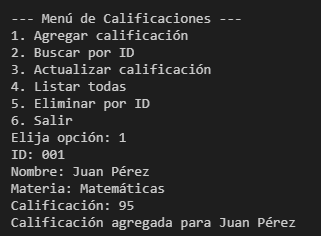
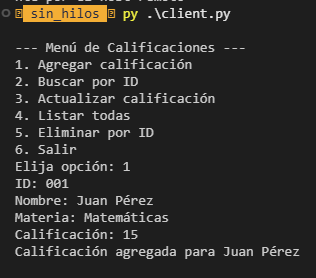
Refactor code structure for improved readability and maintainability

Changed region(s): [[0.0, 0.0, 0.9684, 0.9788], [0.712, 0.1483, 0.769, 0.178]]

diff --git a/laboratorio_2/README.md b/laboratorio_2/README.md
@@ -1,4 +1,9 @@
 # Sistema de Gestión de Calificaciones - Laboratorio 2
+## Autores
+
+- Dennison Chalacan
+- Josue Guallichico
+- Cristian Robalino
 
 ## Descripción General del Proyecto
 
@@ -205,14 +210,15 @@ Elija opción: 1
 ID: 003
 Nombre: Carlos Ruiz
 Materia: INVALID123
-Calificación: 90
+Calificación: 13
 ```
 
 **Respuesta del servidor:**
 ```json
 {"status": "error", "mensaje": "Materia/NRC no válida"}
 ```
-
+**En Terminal (Gráfico):**
+![Texto Alternativo Descriptivo](./img/imagen3.png)
 ---
 
 ### Ejemplo 4: Buscar Estudiante por ID
@@ -224,9 +230,10 @@ ID: 001
 
 **Respuesta:**
 ```
-Nombre: Juan Pérez, Materia: Matemáticas, Calificación: 95
+Nombre: Juan Pérez, Materia: Matemáticas, Calificación: 15
 ```
-
+**En Terminal (Gráfico):**
+![Texto Alternativo Descriptivo](./img/imagen4.png)
 ---
 
 ### Ejemplo 5: Listar Todas las Calificaciones
@@ -237,10 +244,10 @@ Elija opción: 4
 
 **Respuesta:**
 ```
-{'ID_Estudiante': '001', 'Nombre': 'Juan Pérez', 'Materia': 'Matemáticas', 'Calificacion': '95'}
-{'ID_Estudiante': '002', 'Nombre': 'María López', 'Materia': 'MAT101', 'Calificacion': '88'}
+{'ID_Estudiante': '001', 'Nombre': 'Juan Perez', 'Materia': 'Matemáticas', 'Calificacion': '15'}
+{'ID_Estudiante': '002', 'Nombre': 'Maria Lopez', 'Materia': 'MAT101', 'Calificacion': '13'}
 ```
-
+![Texto Alternativo Descriptivo](./img/imagen5.png)
 ## Cómo Probar Concurrencia
 
 ### Prueba 1: Servidor Secuencial (sin_hilos) - Sin Concurrencia
@@ -354,9 +361,3 @@ FIS201,Fisica
 ```
 
 ---
-
-## Autores
-
-- Dennison Chalacan
-- Josue Guallichico
-- Cristian Robalino
